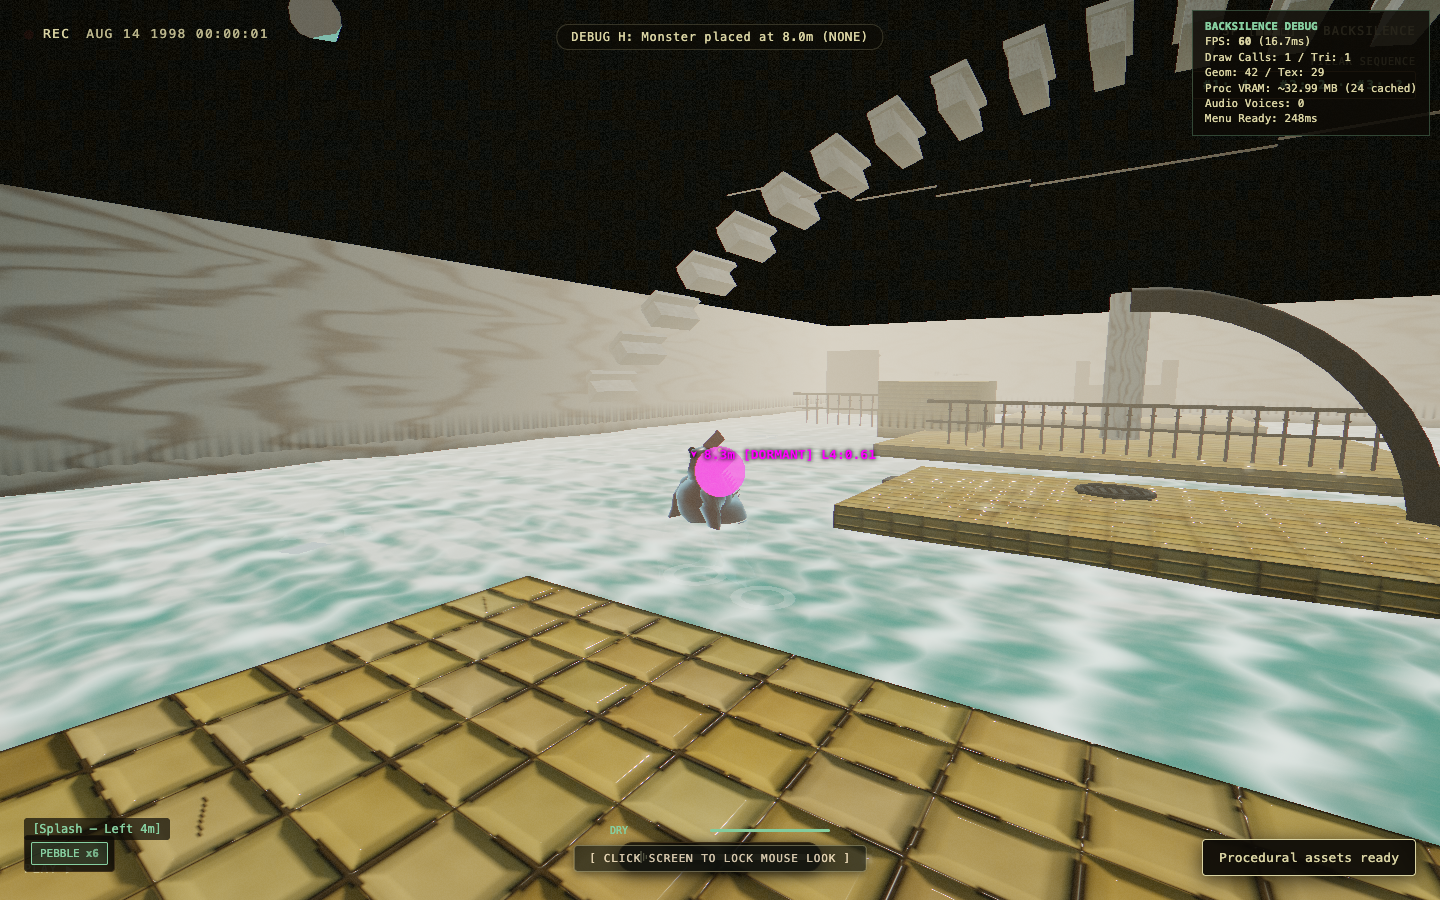
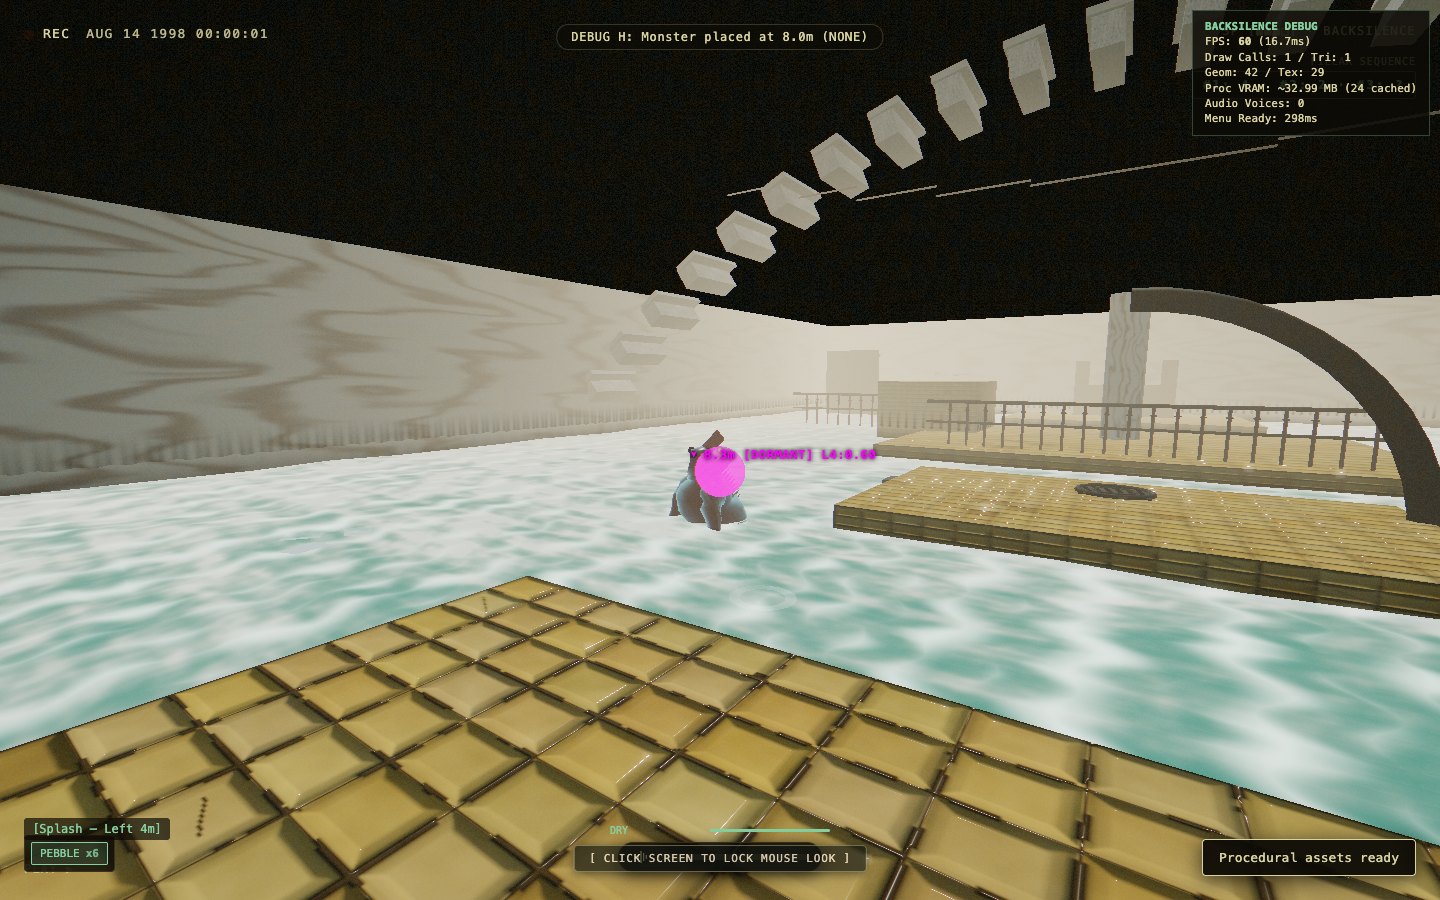
fix(shader): exact coolRim contract match and clean acceptance smoke run (D078)

diff --git a/src/game/monster/MonsterMesh.ts b/src/game/monster/MonsterMesh.ts
@@ -143,7 +143,7 @@ export class MonsterMeshHierarchy {
         // Silhouette readability lift (subsurface backscatter) + cool rim
         vec3 viewDir = normalize(vViewPosition);
         float rim = 1.0 - max(0.0, dot(vNormal, viewDir));
-        vec3 coolRim = vec3(0.22, 0.56, 0.68) * pow(rim, 2.4) * 0.55;
+        vec3 coolRim = vec3(0.18, 0.52, 0.62) * pow(rim, 2.4) * 0.55;
         vec3 subsurfaceLift = vec3(0.065, 0.045, 0.038);
         gl_FragColor.rgb += coolRim + subsurfaceLift;
         `,
